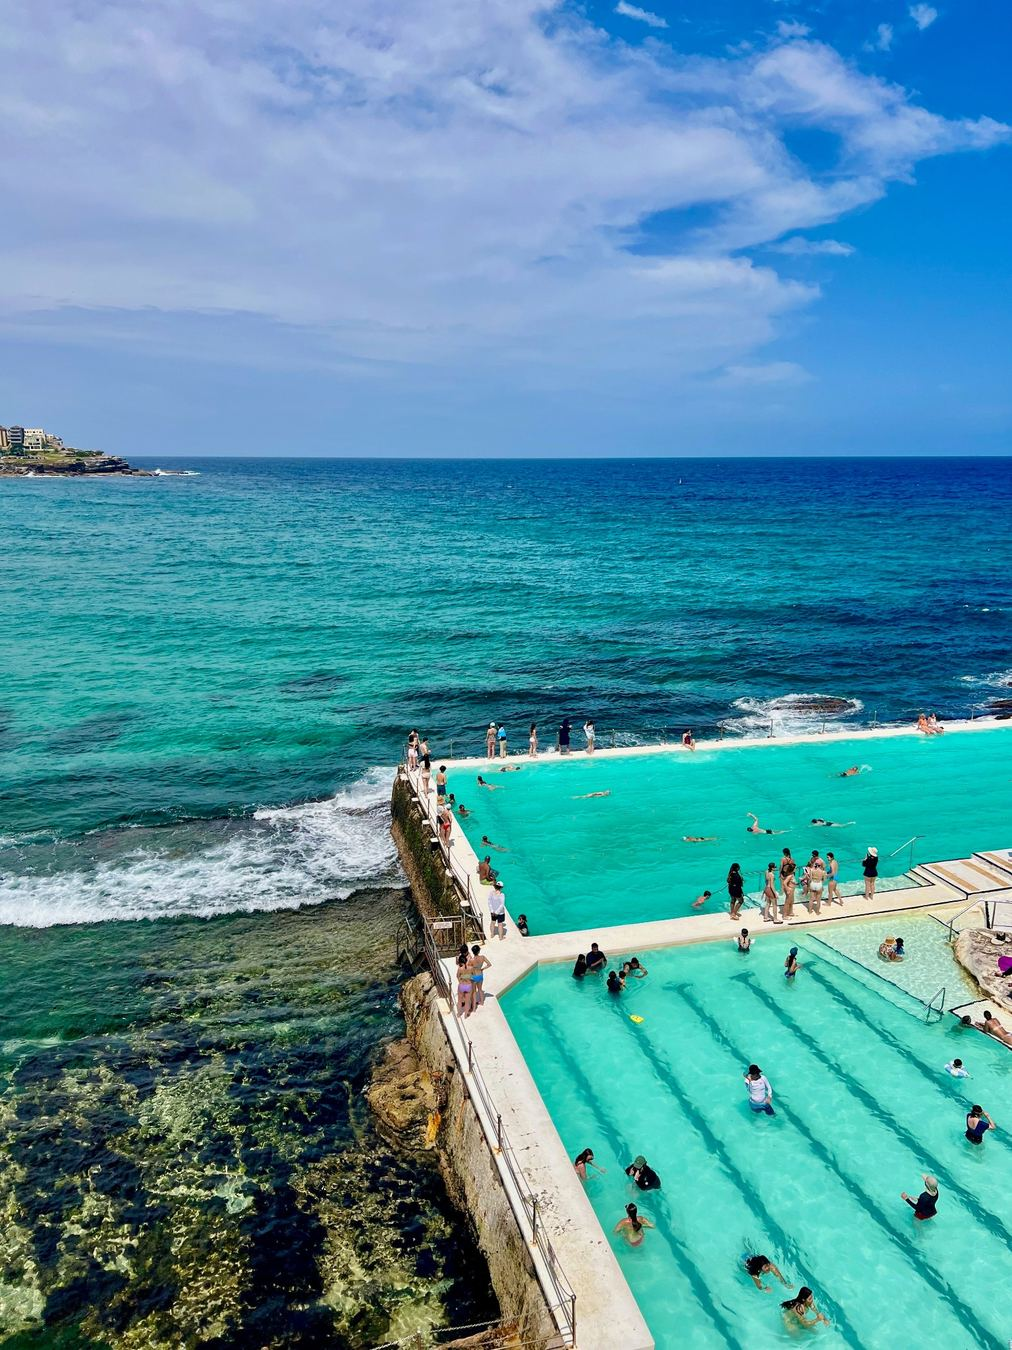
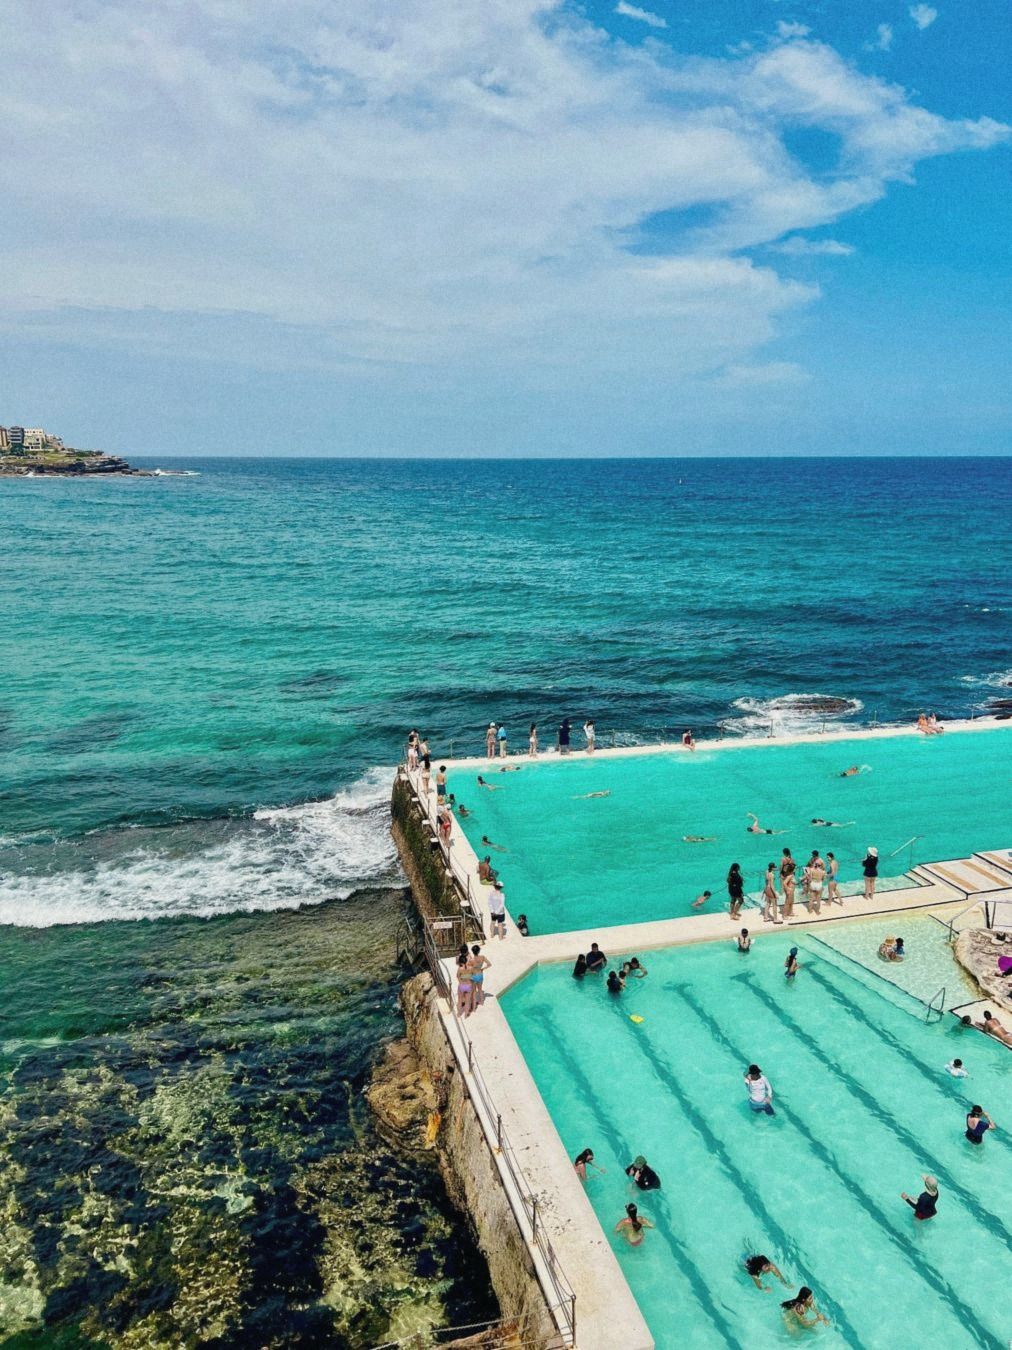
Use film-style edit of Bondi pool photo

diff --git a/index.html b/index.html
@@ -18,7 +18,7 @@
 <div class="gallery-row portrait-row"><button class="photo-card" type="button" aria-label="Open photo 7" onclick="openLightbox(this)"><img loading="lazy" src="assets/gallery/photo-67.jpg?v=2" alt="Travel photograph 7" data-name="cat_gate.jpg" data-caption="cat_gate.jpg"></button><button class="photo-card" type="button" aria-label="Open photo 8" onclick="openLightbox(this)"><img loading="lazy" src="assets/gallery/photo-45.jpg" alt="Travel photograph 8" data-name="000009250019 copy.jpeg" data-caption="000009250019 copy.jpeg"></button><button class="photo-card" type="button" aria-label="Open photo 9" onclick="openLightbox(this)"><img loading="lazy" src="assets/gallery/photo-30.jpg" alt="Travel photograph 9" data-name="orange_building copy.jpeg" data-caption="orange_building copy.jpeg"></button><button class="photo-card" type="button" aria-label="Open photo 10" onclick="openLightbox(this)"><img loading="lazy" src="assets/gallery/photo-54.jpg" alt="Travel photograph 10" data-name="000000820035 copy.jpeg" data-caption="000000820035 copy.jpeg"></button></div>
 <div class="gallery-row landscape-row"><button class="photo-card" type="button" aria-label="Open photo 11" onclick="openLightbox(this)"><img loading="lazy" src="assets/gallery/photo-64.jpg" alt="Travel photograph 11" data-name="rickshaw.jpg" data-caption="rickshaw.jpg"></button><button class="photo-card" type="button" aria-label="Open photo 12" onclick="openLightbox(this)"><img loading="lazy" src="assets/gallery/photo-44.jpg" alt="Travel photograph 12" data-name="000009250035 copy.jpeg" data-caption="000009250035 copy.jpeg"></button><button class="photo-card" type="button" aria-label="Open photo 13" onclick="openLightbox(this)"><img loading="lazy" src="assets/gallery/photo-13.jpg" alt="Travel photograph 13" data-name="IMG_2643.jpeg" data-caption="IMG_2643.jpeg"></button></div>
 <div class="gallery-row landscape-row"><button class="photo-card" type="button" aria-label="Open photo 14" onclick="openLightbox(this)"><img loading="lazy" src="assets/gallery/photo-53.jpg" alt="Travel photograph 14" data-name="000009250013 copy.jpeg" data-caption="000009250013 copy.jpeg"></button><button class="photo-card" type="button" aria-label="Open photo 15" onclick="openLightbox(this)"><img loading="lazy" src="assets/gallery/photo-61.jpg" alt="Travel photograph 15" data-name="000003970022 copy.jpeg" data-caption="000003970022 copy.jpeg"></button><button class="photo-card" type="button" aria-label="Open photo 16" onclick="openLightbox(this)"><img loading="lazy" src="assets/gallery/photo-28.jpg" alt="Travel photograph 16" data-name="000009270016 copy.jpeg" data-caption="000009270016 copy.jpeg"></button></div>
-<div class="gallery-row portrait-row"><button class="photo-card" type="button" aria-label="Open photo 17" onclick="openLightbox(this)"><img loading="lazy" src="assets/gallery/photo-46.jpg" alt="Travel photograph 17" data-name="000009250031 copy.jpeg" data-caption="000009250031 copy.jpeg"></button><button class="photo-card" type="button" aria-label="Open photo 18" onclick="openLightbox(this)"><img loading="lazy" src="assets/gallery/photo-55.jpg" alt="Travel photograph 18" data-name="000003970027 copy.jpeg" data-caption="000003970027 copy.jpeg"></button><button class="photo-card" type="button" aria-label="Open photo 19" onclick="openLightbox(this)"><img loading="lazy" src="assets/gallery/photo-58.jpg" alt="Travel photograph 19" data-name="000009250017 copy.jpeg" data-caption="000009250017 copy.jpeg"></button><button class="photo-card" type="button" aria-label="Open photo 20" onclick="openLightbox(this)"><img loading="lazy" src="assets/gallery/photo-37.jpg" alt="Travel photograph 20" data-name="IMG_5978.jpeg" data-caption="IMG_5978.jpeg"></button></div>
+<div class="gallery-row portrait-row"><button class="photo-card" type="button" aria-label="Open photo 17" onclick="openLightbox(this)"><img loading="lazy" src="assets/gallery/photo-46.jpg" alt="Travel photograph 17" data-name="000009250031 copy.jpeg" data-caption="000009250031 copy.jpeg"></button><button class="photo-card" type="button" aria-label="Open photo 18" onclick="openLightbox(this)"><img loading="lazy" src="assets/gallery/photo-55.jpg" alt="Travel photograph 18" data-name="000003970027 copy.jpeg" data-caption="000003970027 copy.jpeg"></button><button class="photo-card" type="button" aria-label="Open photo 19" onclick="openLightbox(this)"><img loading="lazy" src="assets/gallery/photo-58.jpg" alt="Travel photograph 19" data-name="000009250017 copy.jpeg" data-caption="000009250017 copy.jpeg"></button><button class="photo-card" type="button" aria-label="Open photo 20" onclick="openLightbox(this)"><img loading="lazy" src="assets/gallery/photo-37.jpg?v=2" alt="Travel photograph 20" data-name="IMG_5978.jpeg" data-caption="IMG_5978.jpeg"></button></div>
 <div class="gallery-row landscape-row"><button class="photo-card" type="button" aria-label="Open photo 21" onclick="openLightbox(this)"><img loading="lazy" src="assets/gallery/photo-26.jpg" alt="Travel photograph 21" data-name="000009270003 copy.jpeg" data-caption="000009270003 copy.jpeg"></button><button class="photo-card" type="button" aria-label="Open photo 22" onclick="openLightbox(this)"><img loading="lazy" src="assets/gallery/photo-41.jpg" alt="Travel photograph 22" data-name="000009250014 copy.jpeg" data-caption="000009250014 copy.jpeg"></button><button class="photo-card" type="button" aria-label="Open photo 23" onclick="openLightbox(this)"><img loading="lazy" src="assets/gallery/photo-02.jpg" alt="Travel photograph 23" data-name="rocky_hill copy.jpeg" data-caption="rocky_hill copy.jpeg"></button></div>
 <div class="gallery-row landscape-row"><button class="photo-card" type="button" aria-label="Open photo 24" onclick="openLightbox(this)"><img loading="lazy" src="assets/gallery/photo-04.jpg" alt="Travel photograph 24" data-name="village copy.jpeg" data-caption="village copy.jpeg"></button><button class="photo-card" type="button" aria-label="Open photo 25" onclick="openLightbox(this)"><img loading="lazy" src="assets/gallery/photo-07.jpg" alt="Travel photograph 25" data-name="market copy.JPG" data-caption="market copy.JPG"></button><button class="photo-card" type="button" aria-label="Open photo 26" onclick="openLightbox(this)"><img loading="lazy" src="assets/gallery/photo-10.jpg" alt="Travel photograph 26" data-name="courtyard copy.jpeg" data-caption="courtyard copy.jpeg"></button></div>
 </div>
